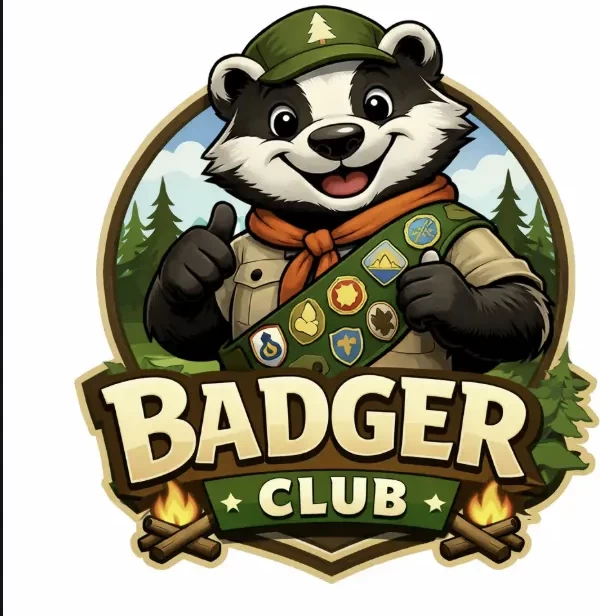
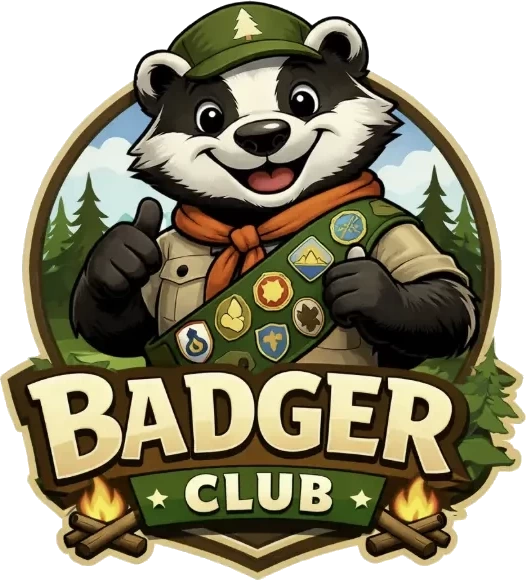
✨ feat(portfolio): one fixed preview card size and whole identity artwork
Every preview now opens at exactly the same size, 600px tall on a laptop
and the viewport height less a margin on a phone, so each project shows
the same balance of image and information. The image panel is one plain
dark surface for all six; the per-card mats and tint glows are gone.
Each identity sits whole and centred with no cropping: the UNCX logotype
comes in as the brand's own SVG, the Badger Club crest is lifted off its
white card, the unified menu is shown as its phone view with the logo in
frame, and Quiver's poster is the one image that fills the panel, now
justified right so the archer is in view. The previous desktop menu
strip moves to assets-archive rather than being deleted.

diff --git a/src/styles/portrait.css b/src/styles/portrait.css
@@ -61,30 +61,29 @@
 .particle-tools { position: fixed; z-index: 21; left: 44px; bottom: 26px; display: flex; align-items: center; gap: 20px; }
 .particle-tools button { display: flex; align-items: center; gap: 8px; min-height: 38px; background: none; color: #bcc4ba; font-size: 11px; padding: 8px 0; cursor: pointer; border: 0; }
 .particle-tools [role='status'] { font-size: 11px; color: #b9b29f; }
-/* Preview card: one screen, one image that is the project's identity, one
-   short pitch and one way onward. Nothing in it should need scrolling on a
-   laptop; the full case study is where the detail lives. */
-.spatial-dialog { position: fixed; margin: auto; width: min(1040px, calc(100% - 64px)); max-height: min(640px, calc(100svh - 56px)); padding: 0; overflow: hidden; border-radius: 16px; border: 1px solid #d4dbce5c; background: #101515f2; color: #f0f0e9; box-shadow: 0 50px 150px #000a, inset 0 1px 0 #ffffff1c; backdrop-filter: blur(36px); -webkit-backdrop-filter: blur(36px); }
-.spatial-dialog[open] { display: grid; grid-template-columns: 0.9fr 1.1fr; animation: spatial-open .4s cubic-bezier(.2,.8,.2,1) both; }
+/* Preview card: one fixed size for every project, so each opens with the
+   same balance of image and information. One image, whole and centred (or
+   filling, for Quiver's poster), one short pitch and one way onward. */
+.spatial-dialog { position: fixed; margin: auto; width: min(1040px, calc(100% - 64px)); height: min(600px, calc(100svh - 56px)); padding: 0; overflow: hidden; border-radius: 16px; border: 1px solid #d4dbce5c; background: #101515f2; color: #f0f0e9; box-shadow: 0 50px 150px #000a, inset 0 1px 0 #ffffff1c; backdrop-filter: blur(36px); -webkit-backdrop-filter: blur(36px); }
+.spatial-dialog[open] { display: grid; grid-template-columns: 0.9fr 1.1fr; grid-template-rows: minmax(0, 1fr); animation: spatial-open .4s cubic-bezier(.2,.8,.2,1) both; }
 .spatial-dialog::backdrop { background: #02060566; backdrop-filter: blur(10px); -webkit-backdrop-filter: blur(10px); }
-.spatial-dialog-visual { position: relative; display: grid; place-items: center; min-height: 420px; padding: 34px; overflow: hidden; background: radial-gradient(circle at 28% 18%, color-mix(in srgb, var(--card-tint), transparent 66%), transparent 62%), var(--preview-mat, #0a0e0d); border-right: 1px solid #d4dbce1f; }
-.spatial-dialog-visual img { display: block; max-width: 100%; max-height: 100%; width: auto; height: auto; object-fit: contain; filter: drop-shadow(0 24px 40px #00000066); }
-.spatial-dialog-visual[data-fit='cover'] { padding: 0; background: var(--preview-mat, #0a0e0d); }
-.spatial-dialog-visual[data-fit='cover'] img { width: 100%; height: 100%; object-fit: cover; object-position: var(--preview-focus, center); filter: none; }
+.spatial-dialog-visual { position: relative; min-height: 0; padding: 44px; overflow: hidden; background: #0a0e0d; border-right: 1px solid #d4dbce1f; }
+.spatial-dialog-visual img { display: block; width: 100%; height: 100%; object-fit: contain; object-position: center; }
+.spatial-dialog-visual[data-fit='cover'] { padding: 0; }
+.spatial-dialog-visual[data-fit='cover'] img { object-fit: cover; object-position: var(--preview-focus, center); }
 .spatial-dialog-body { display: flex; flex-direction: column; min-height: 0; padding: 30px 40px 36px; overflow: auto; overscroll-behavior: contain; }
 .spatial-dialog-body header { display: flex; align-items: center; justify-content: space-between; gap: 20px; margin-bottom: 34px; }
 .spatial-dialog-body header p { display: flex; gap: 14px; margin: 0; color: #a8b1a9; font-size: 12px; }
 .spatial-dialog-body header p span:first-child { color: color-mix(in srgb, var(--card-tint, #c4cec4), #ffffff 50%); }
 .spatial-dialog-body header button { display: flex; align-items: center; gap: 10px; margin-right: -8px; padding: 8px; color: #e7ece1; border: 0; background: none; cursor: pointer; font-size: 13px; }
-.spatial-dialog h2 { margin: 0 0 12px; font-size: clamp(34px, 3.4vw, 46px); font-weight: 500; letter-spacing: -1.5px; line-height: 1.05; }
-.spatial-dialog-headline { margin: 0 0 18px; font-size: clamp(17px, 1.45vw, 20px); line-height: 1.4; letter-spacing: -.2px; color: #e6e8e1; max-width: 26ch; }
-.spatial-dialog-summary { margin: 0; font-size: 14px; line-height: 1.7; color: #b6bfb7; max-width: 44ch; }
-.spatial-dialog-facts { display: grid; grid-template-columns: repeat(3, minmax(0, 1fr)); gap: 18px; margin: 28px 0 0; padding-top: 22px; border-top: 1px solid #c4cec42a; }
+.spatial-dialog h2 { margin: 0 0 14px; font-size: clamp(34px, 3.4vw, 46px); font-weight: 500; letter-spacing: -1.5px; line-height: 1.05; }
+.spatial-dialog-headline { margin: 0 0 18px; font-size: clamp(18px, 1.55vw, 22px); line-height: 1.4; letter-spacing: -.2px; color: #e6e8e1; max-width: 26ch; }
+.spatial-dialog-summary { margin: 0; font-size: 15px; line-height: 1.7; color: #b9c1b9; max-width: 44ch; }
+.spatial-dialog-facts { display: grid; grid-template-columns: repeat(3, minmax(0, 1fr)); gap: 18px; margin: auto 0 0; padding-top: 22px; border-top: 1px solid #c4cec42a; }
 .spatial-dialog-facts dt { margin-bottom: 6px; color: #8f9891; font-size: 11px; }
 .spatial-dialog-facts dd { margin: 0; color: #dfe3dc; font-size: 13px; line-height: 1.45; }
-.spatial-dialog-cta { display: inline-flex; align-items: center; justify-content: space-between; gap: 16px; width: 100%; margin-top: auto; padding: 16px 18px; border-radius: 10px; background: #edece7; color: #060707; font-size: 14px; font-weight: 500; transition: background-color .25s, transform .25s; }
+.spatial-dialog-cta { display: inline-flex; align-items: center; justify-content: space-between; gap: 16px; width: 100%; margin-top: 26px; padding: 16px 18px; border-radius: 10px; background: #edece7; color: #060707; font-size: 14px; font-weight: 500; transition: background-color .25s; }
 .spatial-dialog-cta:hover, .spatial-dialog-cta:focus-visible { background: #ffffff; }
-.spatial-dialog-facts + .spatial-dialog-cta { margin-top: max(28px, auto); }
 .particle-contact-section { position: relative; z-index: 2; }
 .particle-contact-section #contact { border-color: #c4cec424; background: #0b0f0fd9; padding-bottom: 56px; }
 .particle-contact-section input,
@@ -131,17 +130,17 @@
   .particle-ending h2 { font-size: 76px; }
   .particle-ending-inner > p { font-size: 13px; }
   .particle-tools { left: 22px; bottom: 17px; gap: 16px; }
-  .spatial-dialog { width: calc(100% - 24px); max-height: calc(100svh - 32px); border-radius: 14px; }
-  .spatial-dialog[open] { grid-template-columns: 1fr; grid-template-rows: auto minmax(0, 1fr); }
-  .spatial-dialog-visual { min-height: 0; aspect-ratio: 16 / 10; padding: 28px; border-right: 0; border-bottom: 1px solid #d4dbce1f; }
-  .spatial-dialog-body { padding: 20px 22px 22px; }
-  .spatial-dialog-body header { margin-bottom: 18px; }
-  .spatial-dialog h2 { font-size: 30px; }
-  .spatial-dialog-headline { font-size: 16px; margin-bottom: 12px; }
-  .spatial-dialog-summary { font-size: 13px; }
-  .spatial-dialog-facts { grid-template-columns: 1fr 1fr; gap: 14px 16px; margin-top: 18px; padding-top: 16px; }
+  .spatial-dialog { width: calc(100% - 24px); height: calc(100svh - 32px); border-radius: 14px; }
+  .spatial-dialog[open] { grid-template-columns: 1fr; grid-template-rows: 38% minmax(0, 1fr); }
+  .spatial-dialog-visual { padding: 26px; border-right: 0; border-bottom: 1px solid #d4dbce1f; }
+  .spatial-dialog-body { padding: 16px 20px 18px; }
+  .spatial-dialog-body header { margin-bottom: 12px; }
+  .spatial-dialog h2 { font-size: 30px; margin-bottom: 10px; }
+  .spatial-dialog-headline { font-size: 17px; margin-bottom: 12px; }
+  .spatial-dialog-summary { font-size: 13.5px; line-height: 1.6; }
+  .spatial-dialog-facts { grid-template-columns: 1fr 1fr; gap: 10px 16px; padding-top: 14px; }
   .spatial-dialog-facts > div:first-child { grid-column: 1 / -1; }
-  .spatial-dialog-facts + .spatial-dialog-cta { margin-top: 20px; }
+  .spatial-dialog-cta { margin-top: 16px; padding: 13px 16px; }
 }
 @media (prefers-reduced-motion: reduce) {
   html { scroll-behavior: auto; }

diff --git a/src/app/experience/PortraitExperience.tsx b/src/app/experience/PortraitExperience.tsx
@@ -25,23 +25,23 @@ const areaTints: Record<string, string> = {
   Systems: "#668e88",
   Brand: "#9a778d",
 };
-// Each preview shows the project's identity, not a cropped screenshot: a
-// wordmark, a mark, a rendered asset or, for Quiver, its own poster frame.
-// `contain` keeps a logo whole on a mat; `cover` is for photographic art.
-type Preview = { src: string; alt: string; fit: "contain" | "cover"; mat?: string; focus?: string };
+// Each preview shows the project's identity, whole and centred on one plain
+// panel: a wordmark, a mark, a rendered asset or a screen. Only Quiver's
+// poster fills the panel, because it is a photographic frame.
+type Preview = { src: string; alt: string; fit: "contain" | "cover"; focus?: string };
 const projectFrames: { slug: string; description: string; icon: typeof Feather; area: string; preview: Preview }[] = [
   { slug: "quiver", description: "Art direction and generative film", icon: Feather, area: "Film",
-    preview: { src: "/case-studies/quiver/hero-poster.jpg", alt: "A hooded archer in mist, from the Quiver launch film", fit: "cover", focus: "68% center" } },
+    preview: { src: "/case-studies/quiver/hero-poster.jpg", alt: "A hooded archer in mist, from the Quiver launch film", fit: "cover", focus: "right center" } },
   { slug: "uncx-menu", description: "Navigation across a product suite", icon: Network, area: "Product",
-    preview: { src: "/case-studies/uncx-menu/menu-open-panel.webp", alt: "The unified UNCX menu in its open state", fit: "contain" } },
+    preview: { src: "/case-studies/uncx-menu/menu-open-phone.webp", alt: "The unified UNCX menu open on a phone", fit: "contain" } },
   { slug: "solana-diary", description: "Automated media with human approval", icon: BookOpen, area: "Systems",
     preview: { src: "/case-studies/solana-diary/SOLANA_DIARY_LOGO.png", alt: "Solana Diary wordmark", fit: "contain" } },
   { slug: "uncx-video-system", description: "Reusable 3D and motion production", icon: Layers3, area: "Motion",
     preview: { src: "/case-studies/uncx-video-system/3d-asset.webp", alt: "A rendered UNCX padlock asset from the 3D system", fit: "contain" } },
   { slug: "uncx-rebrand", description: "External collaboration and in-house design", icon: Shapes, area: "Brand",
-    preview: { src: "/case-studies/uncx-rebrand/logo-square.webp", alt: "UNCX Network mark", fit: "contain", mat: "#060807" } },
+    preview: { src: "/case-studies/uncx-rebrand/uncx-logotype.svg", alt: "UNCX Network logotype", fit: "contain" } },
   { slug: "badger-club", description: "Product design through implementation", icon: Hexagon, area: "Product",
-    preview: { src: "/case-studies/badger-club/badger-club-crest.webp", alt: "Badger Club crest", fit: "contain", mat: "#f5f3ee" } },
+    preview: { src: "/case-studies/badger-club/badger-club-crest.webp", alt: "Badger Club crest", fit: "contain" } },
 ];
 
 const selectedProjects = projectFrames.map((frame) => {
@@ -404,7 +404,7 @@ export function PortraitExperience() {
 
       <dialog className="spatial-dialog" ref={dialog} aria-labelledby="spatial-dialog-title" onCancel={() => setSelected(null)} onClose={() => setSelected(null)}>
         {selectedProject && <>
-          <div className="spatial-dialog-visual" data-fit={selectedProject.preview.fit} style={{ "--card-tint": areaTints[selectedProject.area] ?? "#849589", "--preview-mat": selectedProject.preview.mat, "--preview-focus": selectedProject.preview.focus } as CSSProperties}>
+          <div className="spatial-dialog-visual" data-fit={selectedProject.preview.fit} style={{ "--card-tint": areaTints[selectedProject.area] ?? "#849589", "--preview-focus": selectedProject.preview.focus } as CSSProperties}>
             <img src={selectedProject.preview.src} alt={selectedProject.preview.alt} />
           </div>
           <div className="spatial-dialog-body">
